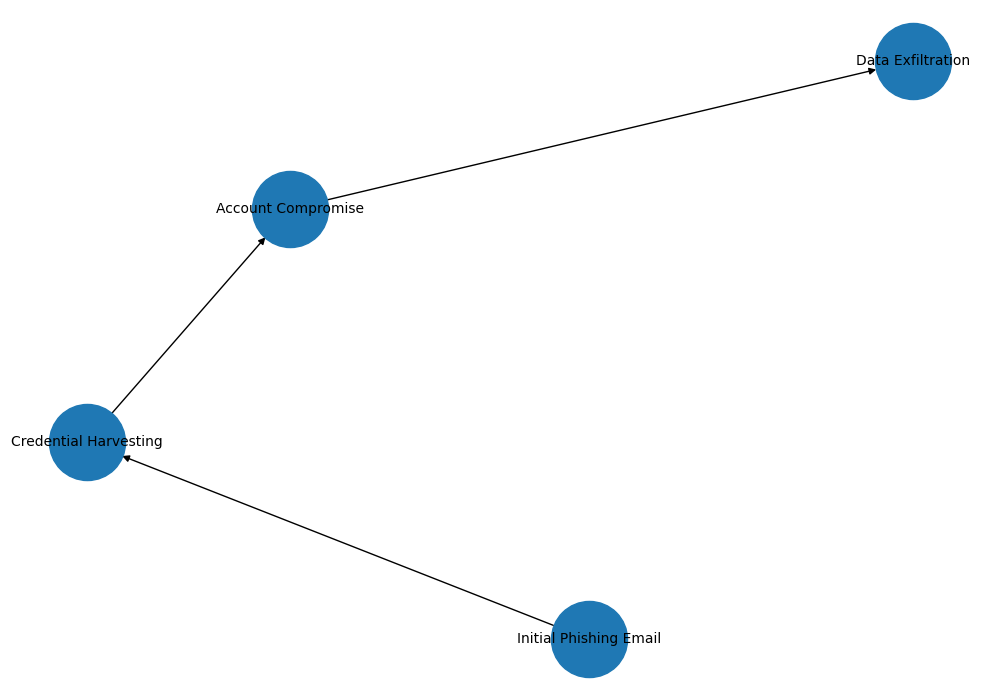
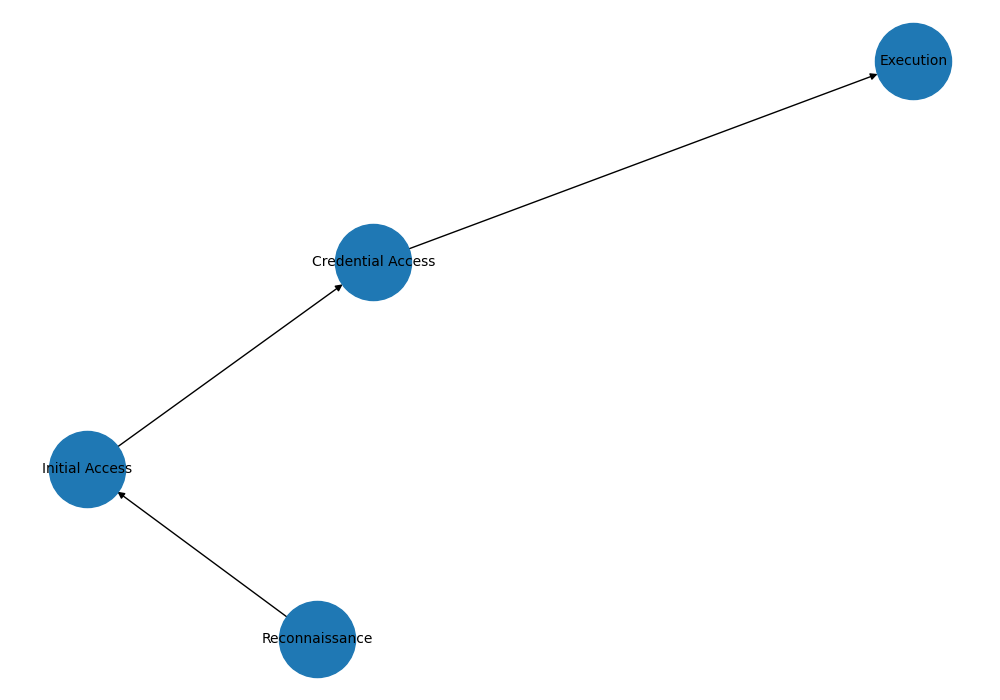
added evaluation result

diff --git a/data/interactive_attack_graph.html b/data/interactive_attack_graph.html
@@ -88,8 +88,8 @@
                   
 
                   // parsing and collecting nodes and edges from the python
-                  nodes = new vis.DataSet([{"color": "#97c2fc", "id": "Initial Phishing Email", "label": "Initial Phishing Email", "shape": "dot", "size": 10}, {"color": "#97c2fc", "id": "Credential Harvesting", "label": "Credential Harvesting", "shape": "dot", "size": 10}, {"color": "#97c2fc", "id": "Account Compromise", "label": "Account Compromise", "shape": "dot", "size": 10}, {"color": "#97c2fc", "id": "Data Exfiltration", "label": "Data Exfiltration", "shape": "dot", "size": 10}]);
-                  edges = new vis.DataSet([{"arrows": "to", "from": "Initial Phishing Email", "to": "Credential Harvesting", "width": 1}, {"arrows": "to", "from": "Credential Harvesting", "to": "Account Compromise", "width": 1}, {"arrows": "to", "from": "Account Compromise", "to": "Data Exfiltration", "width": 1}]);
+                  nodes = new vis.DataSet([{"color": "#97c2fc", "id": "Reconnaissance", "label": "Reconnaissance", "shape": "dot", "size": 10}, {"color": "#97c2fc", "id": "Initial Access", "label": "Initial Access", "shape": "dot", "size": 10}, {"color": "#97c2fc", "id": "Credential Access", "label": "Credential Access", "shape": "dot", "size": 10}, {"color": "#97c2fc", "id": "Execution", "label": "Execution", "shape": "dot", "size": 10}]);
+                  edges = new vis.DataSet([{"arrows": "to", "from": "Reconnaissance", "to": "Initial Access", "width": 1}, {"arrows": "to", "from": "Initial Access", "to": "Credential Access", "width": 1}, {"arrows": "to", "from": "Credential Access", "to": "Execution", "width": 1}]);
 
                   nodeColors = {};
                   allNodes = nodes.get({ returnType: "Object" });

diff --git a/core/evaluation_engine.py b/core/evaluation_engine.py
@@ -1,0 +1,108 @@
+import json
+from collections import defaultdict
+import matplotlib.pyplot as plt
+
+
+class EvaluationEngine:
+
+    def load_dataset(self, path):
+
+        data = []
+
+        with open(path, "r", encoding="utf-8") as f:
+            for line in f:
+                if line.strip():
+                    data.append(json.loads(line))
+
+        return data
+
+    def extract_all_techniques(self, dataset):
+
+        all_techniques = []
+
+        for scenario in dataset:
+
+            for stage in scenario.get("attack_stages", []):
+
+                for tech in stage.get("techniques", []):
+
+                    tid = tech.get("technique_id")
+
+                    if tid:
+                        all_techniques.append(tid)
+
+        return all_techniques
+
+    def simulate_detection(self, dataset, detection_rules):
+
+        detected = []
+        missed = []
+
+        rule_set = set([r["technique"] for r in detection_rules])
+
+        for scenario in dataset:
+
+            for stage in scenario.get("attack_stages", []):
+
+                for tech in stage.get("techniques", []):
+
+                    tid = tech.get("technique_id")
+
+                    if tid in rule_set:
+                        detected.append(tid)
+                    else:
+                        missed.append(tid)
+
+        return detected, missed
+
+    def plot_results(self, detected, missed):
+
+        labels = ["Detected", "Missed"]
+        values = [len(detected), len(missed)]
+
+        plt.figure(figsize=(6, 5))
+        plt.bar(labels, values)
+
+        plt.title("Detection Coverage vs Missed Attacks")
+        plt.tight_layout()
+
+        plt.savefig("data/detection_coverage.png")
+        plt.close()
+
+    def run_evaluation(self, dataset_path, detection_rules):
+
+        dataset = self.load_dataset(dataset_path)
+
+        detected, missed = self.simulate_detection(dataset, detection_rules)
+
+        self.plot_results(detected, missed)
+
+        detection_rate = len(detected) / (len(detected) + len(missed) + 1e-6)
+
+        return {
+            "total_attacks": len(detected) + len(missed),
+            "detected": len(detected),
+            "missed": len(missed),
+            "detection_rate": round(detection_rate, 3)
+        }
+
+
+if __name__ == "__main__":
+
+    from core.detection_rules import DetectionRuleGenerator
+
+    dataset_path = "dataset/dataset.jsonl"
+
+    # load dataset
+    engine = EvaluationEngine()
+    dataset = engine.load_dataset(dataset_path)
+
+    # generate detection rules
+    generator = DetectionRuleGenerator()
+    rules = generator.generate_rules(dataset)
+
+    # run evaluation
+    results = engine.run_evaluation(dataset_path, rules)
+
+    print("\nEVALUATION RESULTS:")
+    print(json.dumps(results, indent=4))
